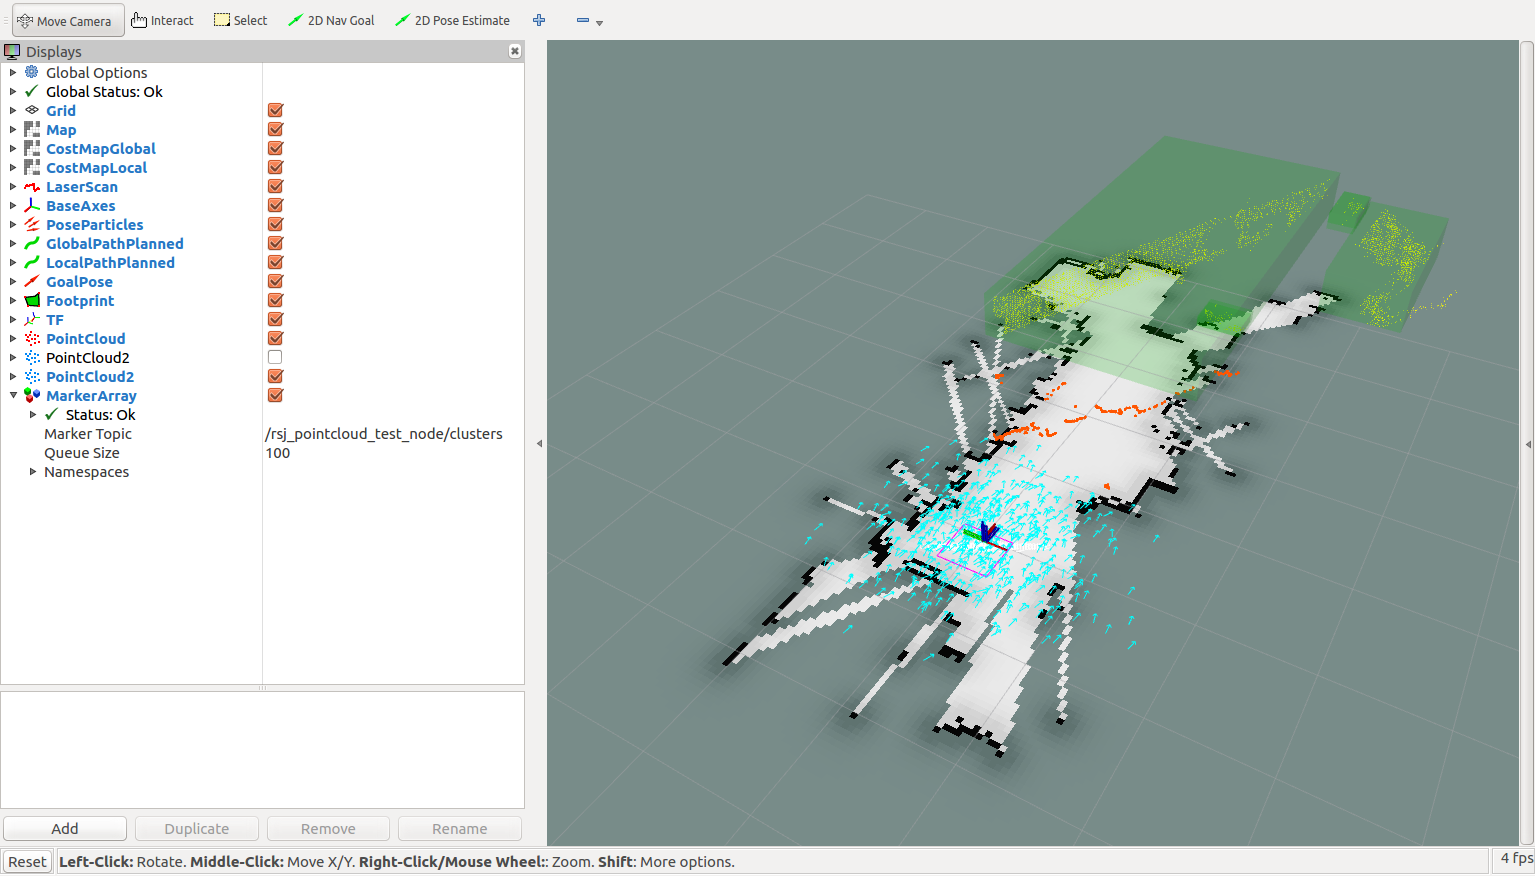
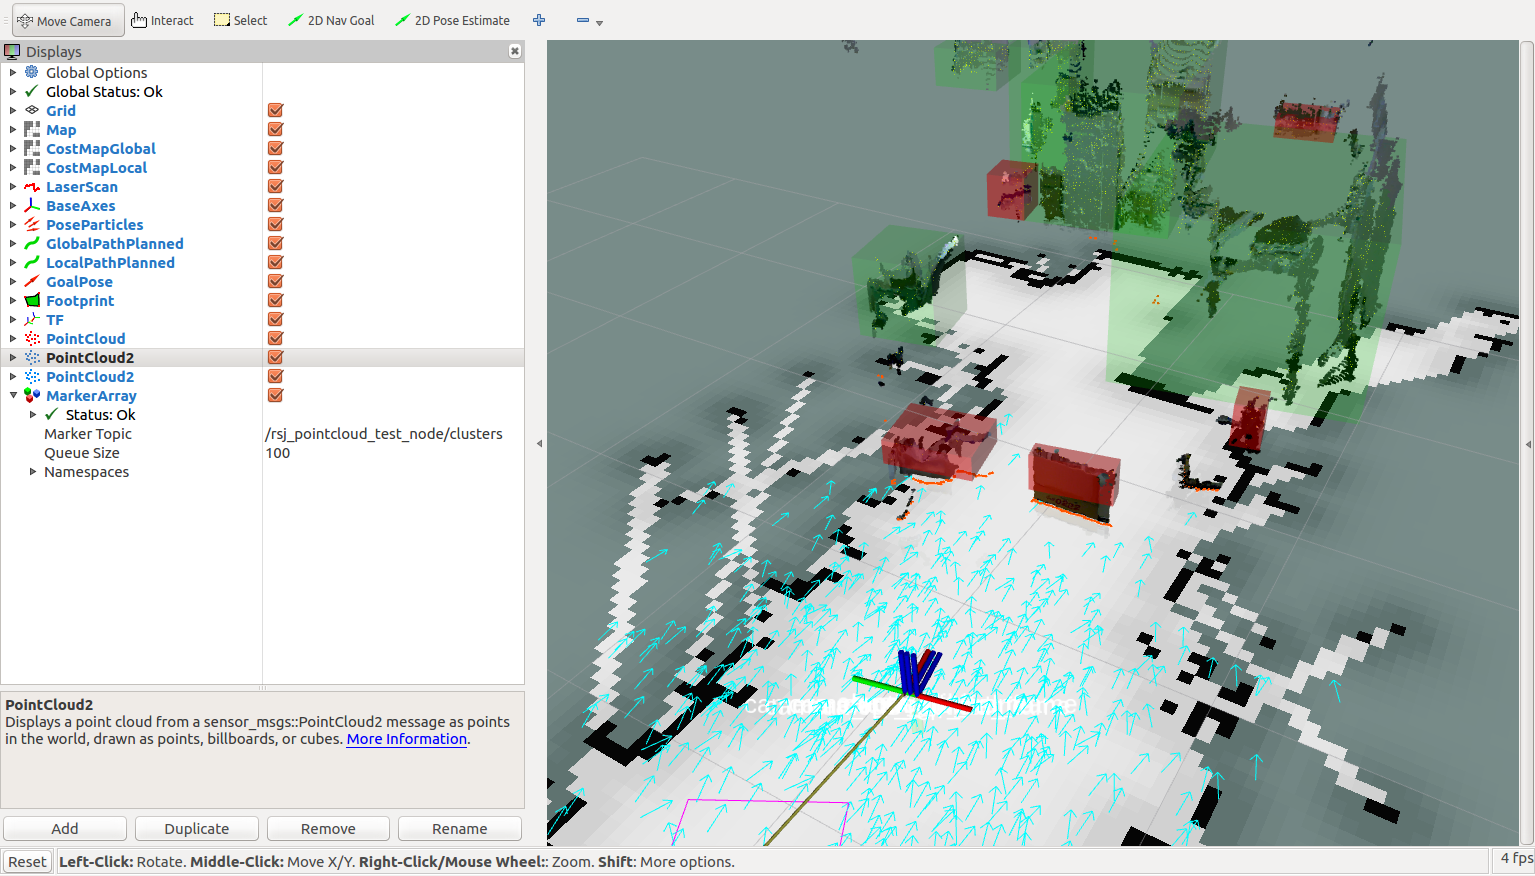
Update:クラスタ抽出を rsj_pointcloud_test_node 側で行う。

diff --git a/ros_3d_points_filters.md b/ros_3d_points_filters.md
@@ -16,7 +16,7 @@ date: 2018-04-23
 テキストエディタで`rsj_pointcloud_test_node.cpp`を開いてください。
 
 ```shell
-$ cd catkin_ws/src/rsj_pointcloud_test/src
+$ cd ~/catkin_ws/src/rsj_pointcloud_test/src
 任意のテキストエディタで rsj_pointcloud_test_node.cpp を開く
 ```
 
@@ -52,7 +52,7 @@ private:
     略
     cloud_tranform.reset(new PointCloud());
     pass.setFilterFieldName("z"); // Z軸（高さ）の値でフィルタをかける
-    pass.setFilterLimits(0.5, 1.0); // 0.5 〜 1.0 m の間にある点群を抽出
+    pass.setFilterLimits(0.1, 1.0); // 0.1 〜 1.0 m の間にある点群を抽出
     cloud_passthrough.reset(new PointCloud());
     pub_passthrough = nh.advertise<PointCloud>("passthrough", 1);
   }
@@ -307,7 +307,7 @@ private:
       {
         Eigen::Vector4f min_pt, max_pt;
         pcl::getMinMax3D(*cloud_voxel, *it, min_pt, max_pt);
-        marker_array.markers.push_back(make_marker(frame_id, marker_id, min_pt, max_pt));
+        marker_array.markers.push_back(make_marker(frame_id, "cluster", marker_id, min_pt, max_pt, 0.0f, 1.0f, 0.0f, 0.2f));
       }
       if (marker_array.markers.empty() == false)
       {
@@ -339,3 +339,71 @@ $ rviz -d view_filters.rviz
 RViz の左にある`PointCloud2`の一番下のチェックだけを ON にすると`VoxelGrid`フィルタ実行後の点群だけが表示されます。
 さらにクラスタリング結果が半透明の緑の BOX で表示されているのが分かります。
 これはプログラム中でクラスタリング結果を RViz が可視化可能な型である `visualization_msgs::MarkerArray`に変換してパブリッシュしているからです。
+
+![XtionClusters](images/xtion_view_clusters.png)
+
+## 特定の条件に合致するクラスタだけを送信する
+
+検出したクラスタのうち、一定の大きさをもつものだけを抽出するようにしましょう。
+最終的にはゴミ箱や人間の足など、特定の大きさなど何らかの条件を満たすクラスタに向かって走行するように制御します。
+
+`cb_points`関数を次のように変更します。
+```c++
+  void cb_points(const PointCloud::ConstPtr &msg)
+  {
+    try
+    {
+        略
+      visualization_msgs::MarkerArray marker_array;
+      int marker_id = 0;
+      size_t ok = 0;
+      for (std::vector<pcl::PointIndices>::const_iterator it = cluster_indices.begin(), it_end = cluster_indices.end(); it != it_end; ++it, ++marker_id)
+      {
+        Eigen::Vector4f min_pt, max_pt;
+        pcl::getMinMax3D(*cloud_voxel, *it, min_pt, max_pt);
+        Eigen::Vector4f cluster_size = max_pt - min_pt;
+        bool is_ok = true;
+        if (cluster_size.x() < 0.05 || cluster_size.x() > 0.4)
+        {
+          is_ok = false;
+        }
+        else if (cluster_size.y() < 0.05 || cluster_size.y() > 0.6)
+        {
+          is_ok = false;
+        }
+        else if (cluster_size.z() < 0.05 || cluster_size.z() > 0.5)
+        {
+          is_ok = false;
+        }
+        if (is_ok)
+        {
+          marker_array.markers.push_back(make_marker(frame_id, "ok_cluster", marker_id, min_pt, max_pt, 1.0f, 0.0f, 0.0f, 0.5f));
+          ok++;
+        }
+        else
+        {
+          marker_array.markers.push_back(make_marker(frame_id, "cluster", marker_id, min_pt, max_pt, 0.0f, 1.0f, 0.0f, 0.2f));
+        }
+      }
+      if (marker_array.markers.empty() == false)
+      {
+        pub_clusters.publish(marker_array);
+      }
+      ROS_INFO("points (src: %zu, paththrough: %zu, voxelgrid: %zu, cluster: %zu, ok_cluster: %zu)", msg->size(), cloud_passthrough->size(), cloud_voxel->size(), cluster_indices.size(), ok);
+    }
+    catch (std::exception &e)
+    {
+      ROS_ERROR("%s", e.what());
+    }
+  }
+```
+
+## ビルド＆実行
+
+クラスタリングときと同様にビルドして実行してください。
+
+## フィルタ実行結果の可視化
+
+クラスタリングときと同様に RViz で可視化してください。ある一定の大きさのクラスタだけを赤く表示しているのが分かります。
+
+![XtionClusters](images/xtion_view_specific_clusters.png)

diff --git a/ros_3d_points_integration.md b/ros_3d_points_integration.md
@@ -149,13 +149,3 @@ $ rosrun  rsj_robot_test rsj_robot_test_node
 
 ![XtionViewNavigation](images/xtion_view_navigation.png)
 
-## 特定の条件に合致するクラスタだけを送信する
-
-`rsj_pointcloud_test_node`で検出したクラスタのうち、一定の大きさをもつものだけを抽出するようにしましょう。
-最終的にはゴミ箱や人間の足など、特定の大きさ・高さを持つものに向かって走行するように制御します。
-テキストエディタで`rsj_robot_test_node.cpp`を開いてください。
-
-```shell
-$ cd ~/catkin_ws/src/rsj_robot_test/src
-任意のテキストエディタで rsj_robot_test_node.cpp を開く
-```
